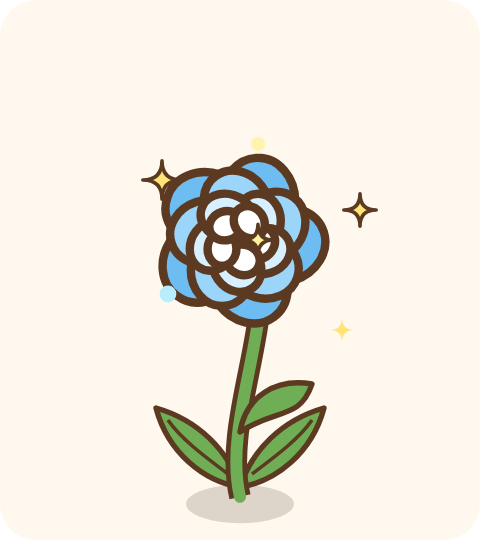
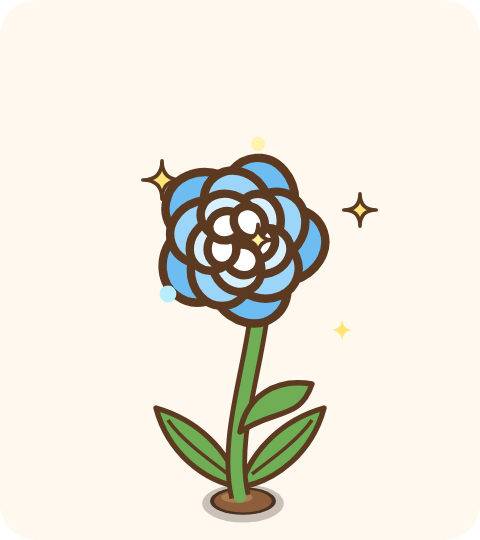
ちょこハピ取説: 特別な花の絵を、アプリの庭と同じ土・影つきにし、ライト/ダークで出し分ける
Claude-Session: https://claude.ai/code/session_018xhQ9ojy8vXUW5kEnUuMjH

Changed region(s): [[0.375, 0.8889, 0.625, 0.9778]]

diff --git a/chocohapi/manual/flowers.html b/chocohapi/manual/flowers.html
@@ -125,7 +125,10 @@
       <p><strong>春の丘をまるごと青く染める、空色の小さな花</strong></p>
       <div class="shot-container">
         <div class="shot-card">
-          <img src="./images/flower_nemophila.png" alt="アプリ内の「ネモフィラ」の絵" width="480" height="540" loading="lazy">
+          <picture>
+            <source media="(prefers-color-scheme: dark)" srcset="./images/flower_nemophila_dark.png">
+            <img src="./images/flower_nemophila.png" alt="アプリ内の「ネモフィラ」の絵" width="480" height="540" loading="lazy">
+          </picture>
           <div class="shot-caption">アプリ内の「ネモフィラ」。咲いた姿は、庭の中で風にゆれます</div>
         </div>
       </div>
@@ -148,7 +151,10 @@
       <p><strong>細い茎に、白い小さな鈴が並んで揺れる花</strong></p>
       <div class="shot-container">
         <div class="shot-card">
-          <img src="./images/flower_suzuran.png" alt="アプリ内の「スズラン」の絵" width="480" height="540" loading="lazy">
+          <picture>
+            <source media="(prefers-color-scheme: dark)" srcset="./images/flower_suzuran_dark.png">
+            <img src="./images/flower_suzuran.png" alt="アプリ内の「スズラン」の絵" width="480" height="540" loading="lazy">
+          </picture>
           <div class="shot-caption">アプリ内の「スズラン」。咲いた姿は、庭の中で風にゆれます</div>
         </div>
       </div>
@@ -171,7 +177,10 @@
       <p><strong>長い房が、上から下へ順に咲いていく花</strong></p>
       <div class="shot-container">
         <div class="shot-card">
-          <img src="./images/flower_wisteria.png" alt="アプリ内の「藤」の絵" width="480" height="540" loading="lazy">
+          <picture>
+            <source media="(prefers-color-scheme: dark)" srcset="./images/flower_wisteria_dark.png">
+            <img src="./images/flower_wisteria.png" alt="アプリ内の「藤」の絵" width="480" height="540" loading="lazy">
+          </picture>
           <div class="shot-caption">アプリ内の「藤」。咲いた姿は、庭の中で風にゆれます</div>
         </div>
       </div>
@@ -193,7 +202,10 @@
       <p><strong>高い山にだけ咲く、空のように青い「幻の花」</strong></p>
       <div class="shot-container">
         <div class="shot-card">
-          <img src="./images/flower_bluepoppy.png" alt="アプリ内の「ヒマラヤの青いケシ」の絵" width="480" height="540" loading="lazy">
+          <picture>
+            <source media="(prefers-color-scheme: dark)" srcset="./images/flower_bluepoppy_dark.png">
+            <img src="./images/flower_bluepoppy.png" alt="アプリ内の「ヒマラヤの青いケシ」の絵" width="480" height="540" loading="lazy">
+          </picture>
           <div class="shot-caption">アプリ内の「ヒマラヤの青いケシ」。咲いた姿は、庭の中で風にゆれます</div>
         </div>
       </div>
@@ -215,7 +227,10 @@
       <p><strong>長いあいだ「不可能」の象徴だった、青いバラ</strong></p>
       <div class="shot-container">
         <div class="shot-card">
-          <img src="./images/flower_bluerose.png" alt="アプリ内の「ブルーローズ」の絵" width="480" height="540" loading="lazy">
+          <picture>
+            <source media="(prefers-color-scheme: dark)" srcset="./images/flower_bluerose_dark.png">
+            <img src="./images/flower_bluerose.png" alt="アプリ内の「ブルーローズ」の絵" width="480" height="540" loading="lazy">
+          </picture>
           <div class="shot-caption">アプリ内の「ブルーローズ」。咲いた姿は、庭の中で風にゆれます</div>
         </div>
       </div>
